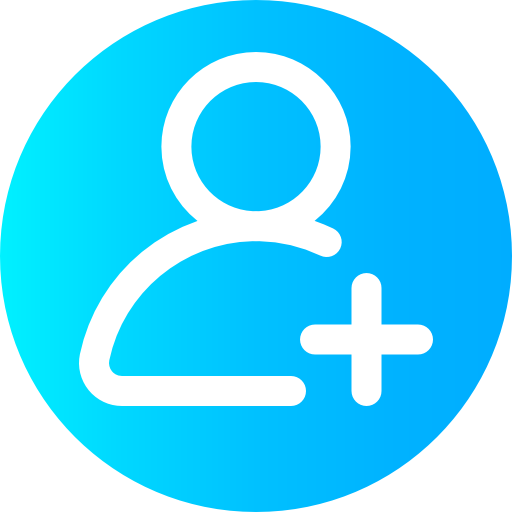
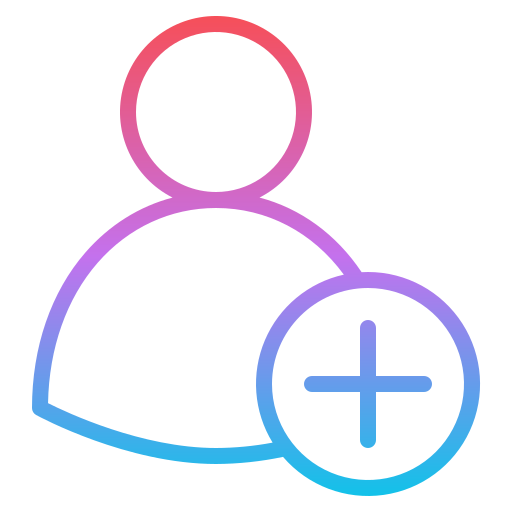
funcao de logout funcionando

diff --git a/templates/home.html b/templates/home.html
@@ -7,25 +7,33 @@
     <link rel="stylesheet" type="text/css" href="{{ url_for('static', filename='css/home.css') }}">
 </head>
 <body>
-
-    <div class="navbar">
-        <div class="navbar-left">
-            <h1>Meu Site</h1>
-        </div>
-        <div class="navbar-right">
-            <div class="usuario">
-                {% if user %}
-                    <p>{{ user }}</p>
-                {% endif %}
+    <section class="navbar-top">
+        <div class="navbar">
+            <div class="navbar-left">
+                <h1>Meu Site</h1>
             </div>
-            <div class="dropdown">
-                <a href="/login"><img src="{{ url_for('static', filename='images/perfil1.png') }}" alt="Ícone de Perfil" class="profile-icon"></a>
-                <!--<div class="dropdown-content">
-                    <a href="{{ url_for('logout') }}">Sair</a>
-                </div>-->
+            <div class="navbar-right">
+                <div class="usuario">
+                    {% if user %}
+                        <p>{{ user }}</p>
+                    {% endif %}
+                </div>
+                <div class="dropdown">
+                    <a href="/login" id="profile-link" data-logged-in="{% if user %}true{% else %}false{% endif %}">
+                        {% if user %}
+                            <img src="{{ url_for('static', filename='images/perfil2.png') }}" alt="Ícone de Perfil Conectado" class="profile-icon">
+                        {% else %}
+                            <img src="{{ url_for('static', filename='images/perfil1.png') }}" alt="Ícone de Perfil Desconectado" class="profile-icon">
+                        {% endif %}
+                    </a>
+                    <div class="dropdown-content">
+                        <a href="{{ url_for('logout') }}">Sair</a>
+                        <a>Editar</a>
+                    </div>
+                </div>
             </div>
-        </div>
-    </div>
-    <script src="{{ url_for('static', filename='js/home.js') }}"></script>
+        </div>   
+    </section>
+        <script src="{{ url_for('static', filename='js/home.js') }}"></script>
 </body>
 </html>

diff --git a/static/css/home.css b/static/css/home.css
@@ -4,13 +4,13 @@ body {
 }
 
 .navbar {
-    background-color: #333; /* Cor de fundo da barra de navegação */
+    background-color: #575252; /* Cor de fundo da barra de navegação */
     color: #fff; /* Cor do texto na barra de navegação */
     display: flex;
     justify-content: space-between;
     align-items: center;
-    padding: 10px 20px; /* Espaçamento interno da barra de navegação */
-    box-shadow: 0 2px 5px rgba(0, 0, 0, 0.1); /* Sombra na parte inferior da barra */
+    padding: -1rem 25px; /* Espaçamento interno da barra de navegação */
+    box-shadow: 0 2px 5px rgba(34, 33, 33, 0.918); /* Sombra na parte inferior da barra */
 }
 
 .navbar-left {
@@ -35,29 +35,27 @@ body {
 }
 
 
-/* Adicione o estilo do menu suspenso */
-.dropbtn {
-    background-color: transparent;
-    border: none;
-    cursor: pointer;
-}
 
 .dropdown {
     position: relative;
     display: inline-block;
+    margin-right: 1.5rem;
 }
 
 .dropdown-content {
+    margin-left: -1rem;
     display: none;
     position: absolute;
-    background-color: #f9f9f9;
-    min-width: 160px;
-    box-shadow: 0px 8px 16px 0px rgba(0,0,0,0.2);
+    background-color: #8a8989;
+    width: 4rem;
+    height: 5rem;
+    box-shadow: 0px 8px 16px 0px rgba(43, 41, 41, 0.2);
+    border-radius: 10px;
     z-index: 1;
 }
 
 .dropdown-content a {
-    color: black;
+    color: rgb(2, 2, 2);
     padding: 12px 16px;
     text-decoration: none;
     display: block;
@@ -65,12 +63,12 @@ body {
 
 .dropdown-content a:hover {
     background-color: #f1f1f1;
+    border-radius: 10px;
+    
 }
 
-.dropdown:hover .dropdown-content {
-    display: block;
-}
 
 .dropdown:hover .dropbtn {
     background-color: #ddd;
+
 }

diff --git a/static/js/home.js b/static/js/home.js
@@ -1,20 +1,20 @@
 document.addEventListener('DOMContentLoaded', function() {
-    // Verifica se há um usuário logado
-    var userLoggedIn = "{{ user }}" !== "";
-
-    // Se não houver usuário logado, redireciona para a página de login
-    document.getElementById('profile-btn').addEventListener('click', function() {
-        if (!userLoggedIn) {
-            window.location.href = "{{ url_for('login') }}";
+    var profileLink = document.getElementById('profile-link');
+    
+    profileLink.addEventListener('click', function(event) {
+        // Verificar se o usuário está conectado usando o atributo personalizado
+        var isLoggedIn = profileLink.getAttribute('data-logged-in') === 'true';
+        
+        // Se o usuário não estiver conectado, a navegação padrão ocorrerá
+        if (!isLoggedIn) {
+            return;
         }
+        
+        // Prevenir o comportamento padrão do link
+        event.preventDefault();
+        
+        // Se o usuário estiver conectado, exibir o menu suspenso
+        var dropdownContent = document.querySelector('.dropdown-content');
+        dropdownContent.style.display = 'block';
     });
-
-    // Se houver usuário logado, exibe o botão "Sair" quando o perfil é clicado
-    if (userLoggedIn) {
-        document.getElementById('dropdown-content').style.display = 'none'; // Oculta o dropdown inicialmente
-
-        document.getElementById('profile-btn').addEventListener('click', function() {
-            document.getElementById('dropdown-content').style.display = 'block';
-        });
-    }
 });

diff --git a/static/css/login.css b/static/css/login.css
@@ -7,17 +7,21 @@ body {
 
 .title-container {
     height: 3.6rem;
-    margin-top: -3.3rem; /* Removendo a margem superior padrão do h2 */
+    margin-top: -3rem; 
     text-align: center;
-    border-radius: 10px; /* Arredondando as bordas */
-    margin-bottom: 3rem; /* Adicionando margem na parte inferior */    
+    border-radius: 10px;
+    margin-bottom: 2rem; 
+    font-size: 1.4rem;
 }
 
-.title-container h2 {
+.title-container h2 {   
     color: black;
 }
 
-
+.msg{
+    color: red;
+    margin-top: -2rem;
+}
 
 .login-container {
     position: relative;
@@ -36,7 +40,7 @@ body {
     left: 0;
     width: 100%;
     height: 100%;
-    z-index: -1; /* Move a imagem de fundo para trás do conteúdo */
+    z-index: -1; 
 
 }
 

diff --git a/templates/login.html b/templates/login.html
@@ -18,7 +18,7 @@
 
             <div class="title-before"></div>
             <div class="title-after"></div>
-            <div>
+            <div class="msg">
                 {% if mensagem %}
                     <p class="error-message">{{ mensagem }}</p>
                 {% endif %}

diff --git a/main.py b/main.py
@@ -3,15 +3,10 @@ import sqlite3
 from app import *
 from app.models import *
 from werkzeug.security import generate_password_hash
-from flask_login import logout_user, LoginManager, login_required
 from flask import Flask, request, render_template, redirect, url_for, session
 
 app = Flask(__name__)
 app.secret_key = 'sua_chave_secreta_aqui'
-
-# Inicialize o LoginManager
-login_manager = LoginManager()
-login_manager.init_app(app)
 
 # Defina o caminho para o arquivo do banco de dados SQLite
 db_path = os.path.join(os.path.dirname(__file__), 'Data', 'Banco.db')
@@ -38,10 +33,11 @@ def criar_tabelas():
 
 criar_tabelas()
 
-# Defina a função load_user
-@login_manager.user_loader
-def load_user(user_id):
-    pass
+# Rota para saída de usuário
+@app.route('/logout')
+def logout():
+    session.clear()
+    return redirect(url_for('home'))
 
 #Rota para tela inicial
 @app.route("/")
@@ -49,13 +45,6 @@ def home():
     # Recuperar o usuário da sessão
     user = session.get('user')
     return render_template('home.html', user=user)
-
-#Rota para saida de usuario
-@app.route('/logout')
-@login_required
-def logout():
-    session.clear()
-    return redirect(url_for('home'))
 
 #Rota para area de login
 @app.route("/login", methods=["GET", "POST"])
@@ -176,9 +165,6 @@ def redefinir():
     codigo = session.get('codigo_otp')  # Obtém o código OTP da sessão
     print("Código OTP:", codigo)  # Aqui você imprime o código na tela
     return render_template('redefinir.html', email=email, codigo=codigo)
-
-
-
 
 if __name__ == "__main__":
     app.run(debug=True)

diff --git a/app/models.py b/app/models.py
@@ -44,11 +44,19 @@ class User:
 
 
     def verify_password(user, pwd):
-        connection = sqlite3.connect('Data/Banco.db')
-        cursor = connection.cursor()
-        cursor.execute('SELECT password FROM users WHERE username = ?', (user,))
-        stored_password_hash = cursor.fetchone()
-        connection.close()
+        if "@" in user:
+            connection = sqlite3.connect('Data/Banco.db')
+            cursor = connection.cursor()
+            cursor.execute('SELECT password FROM users WHERE email=?', (user,))
+            stored_password_hash = cursor.fetchone()
+            connection.close()
+        else:
+            connection = sqlite3.connect('Data/Banco.db')
+            cursor = connection.cursor()
+            cursor.execute('SELECT password FROM users WHERE username=?', (user,))
+            stored_password_hash = cursor.fetchone()
+            connection.close()
+
 
         if stored_password_hash:
             stored_password_hash = stored_password_hash[0]
